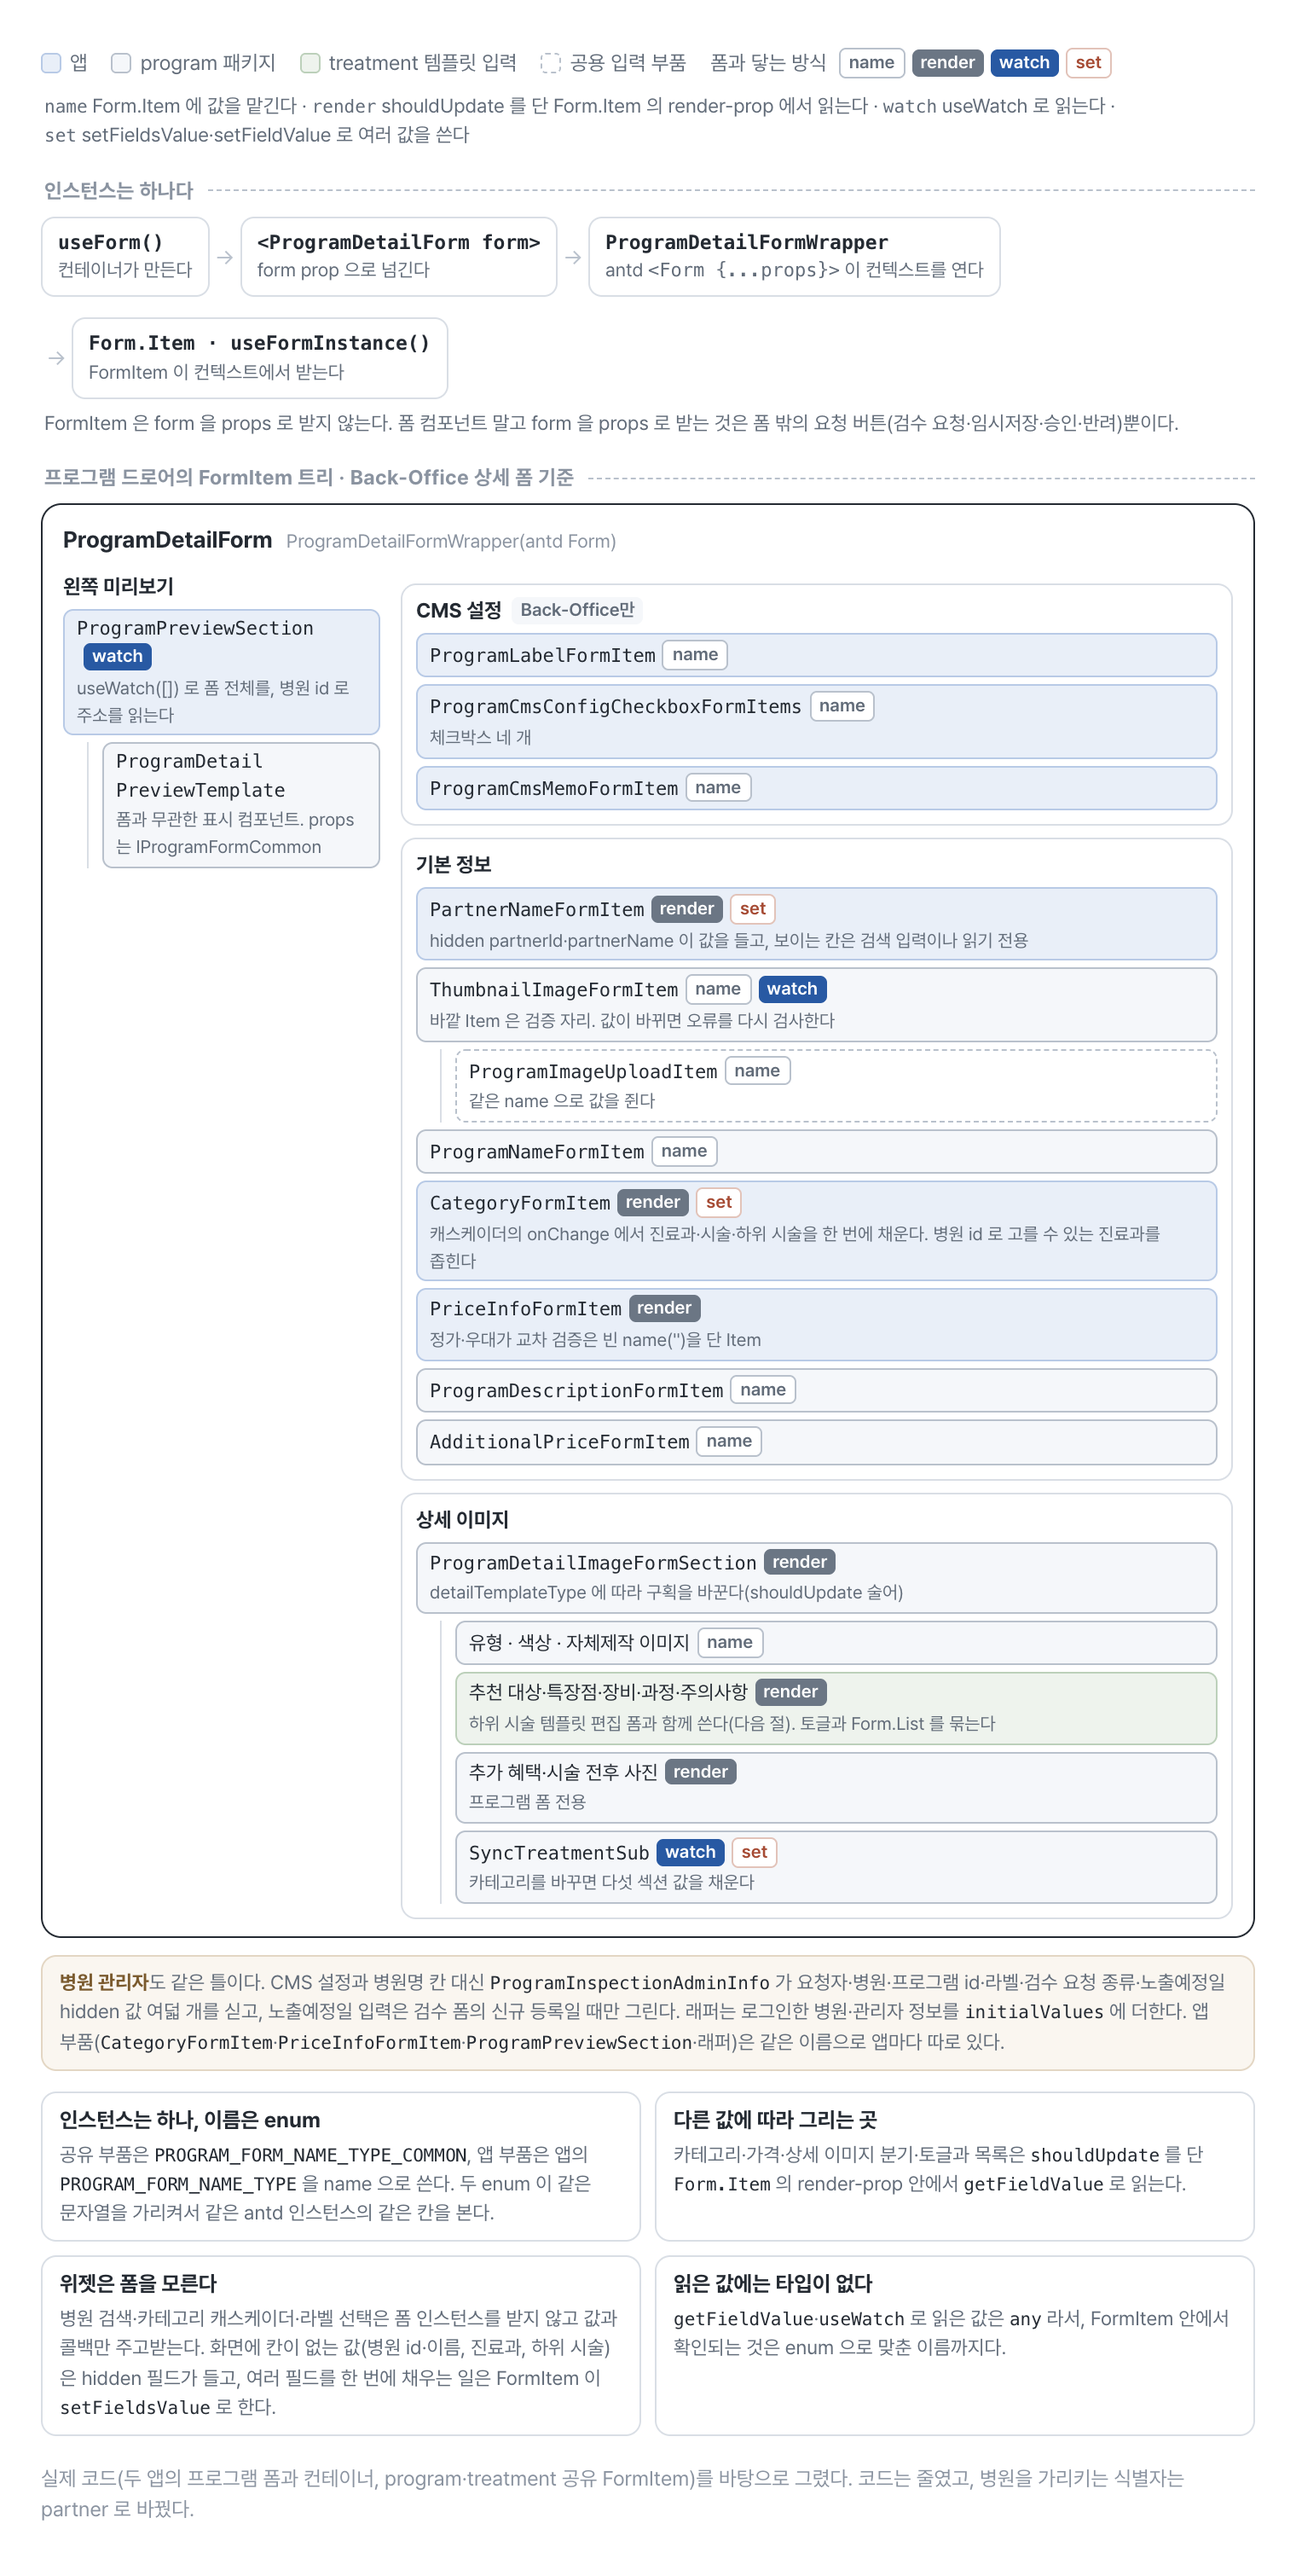
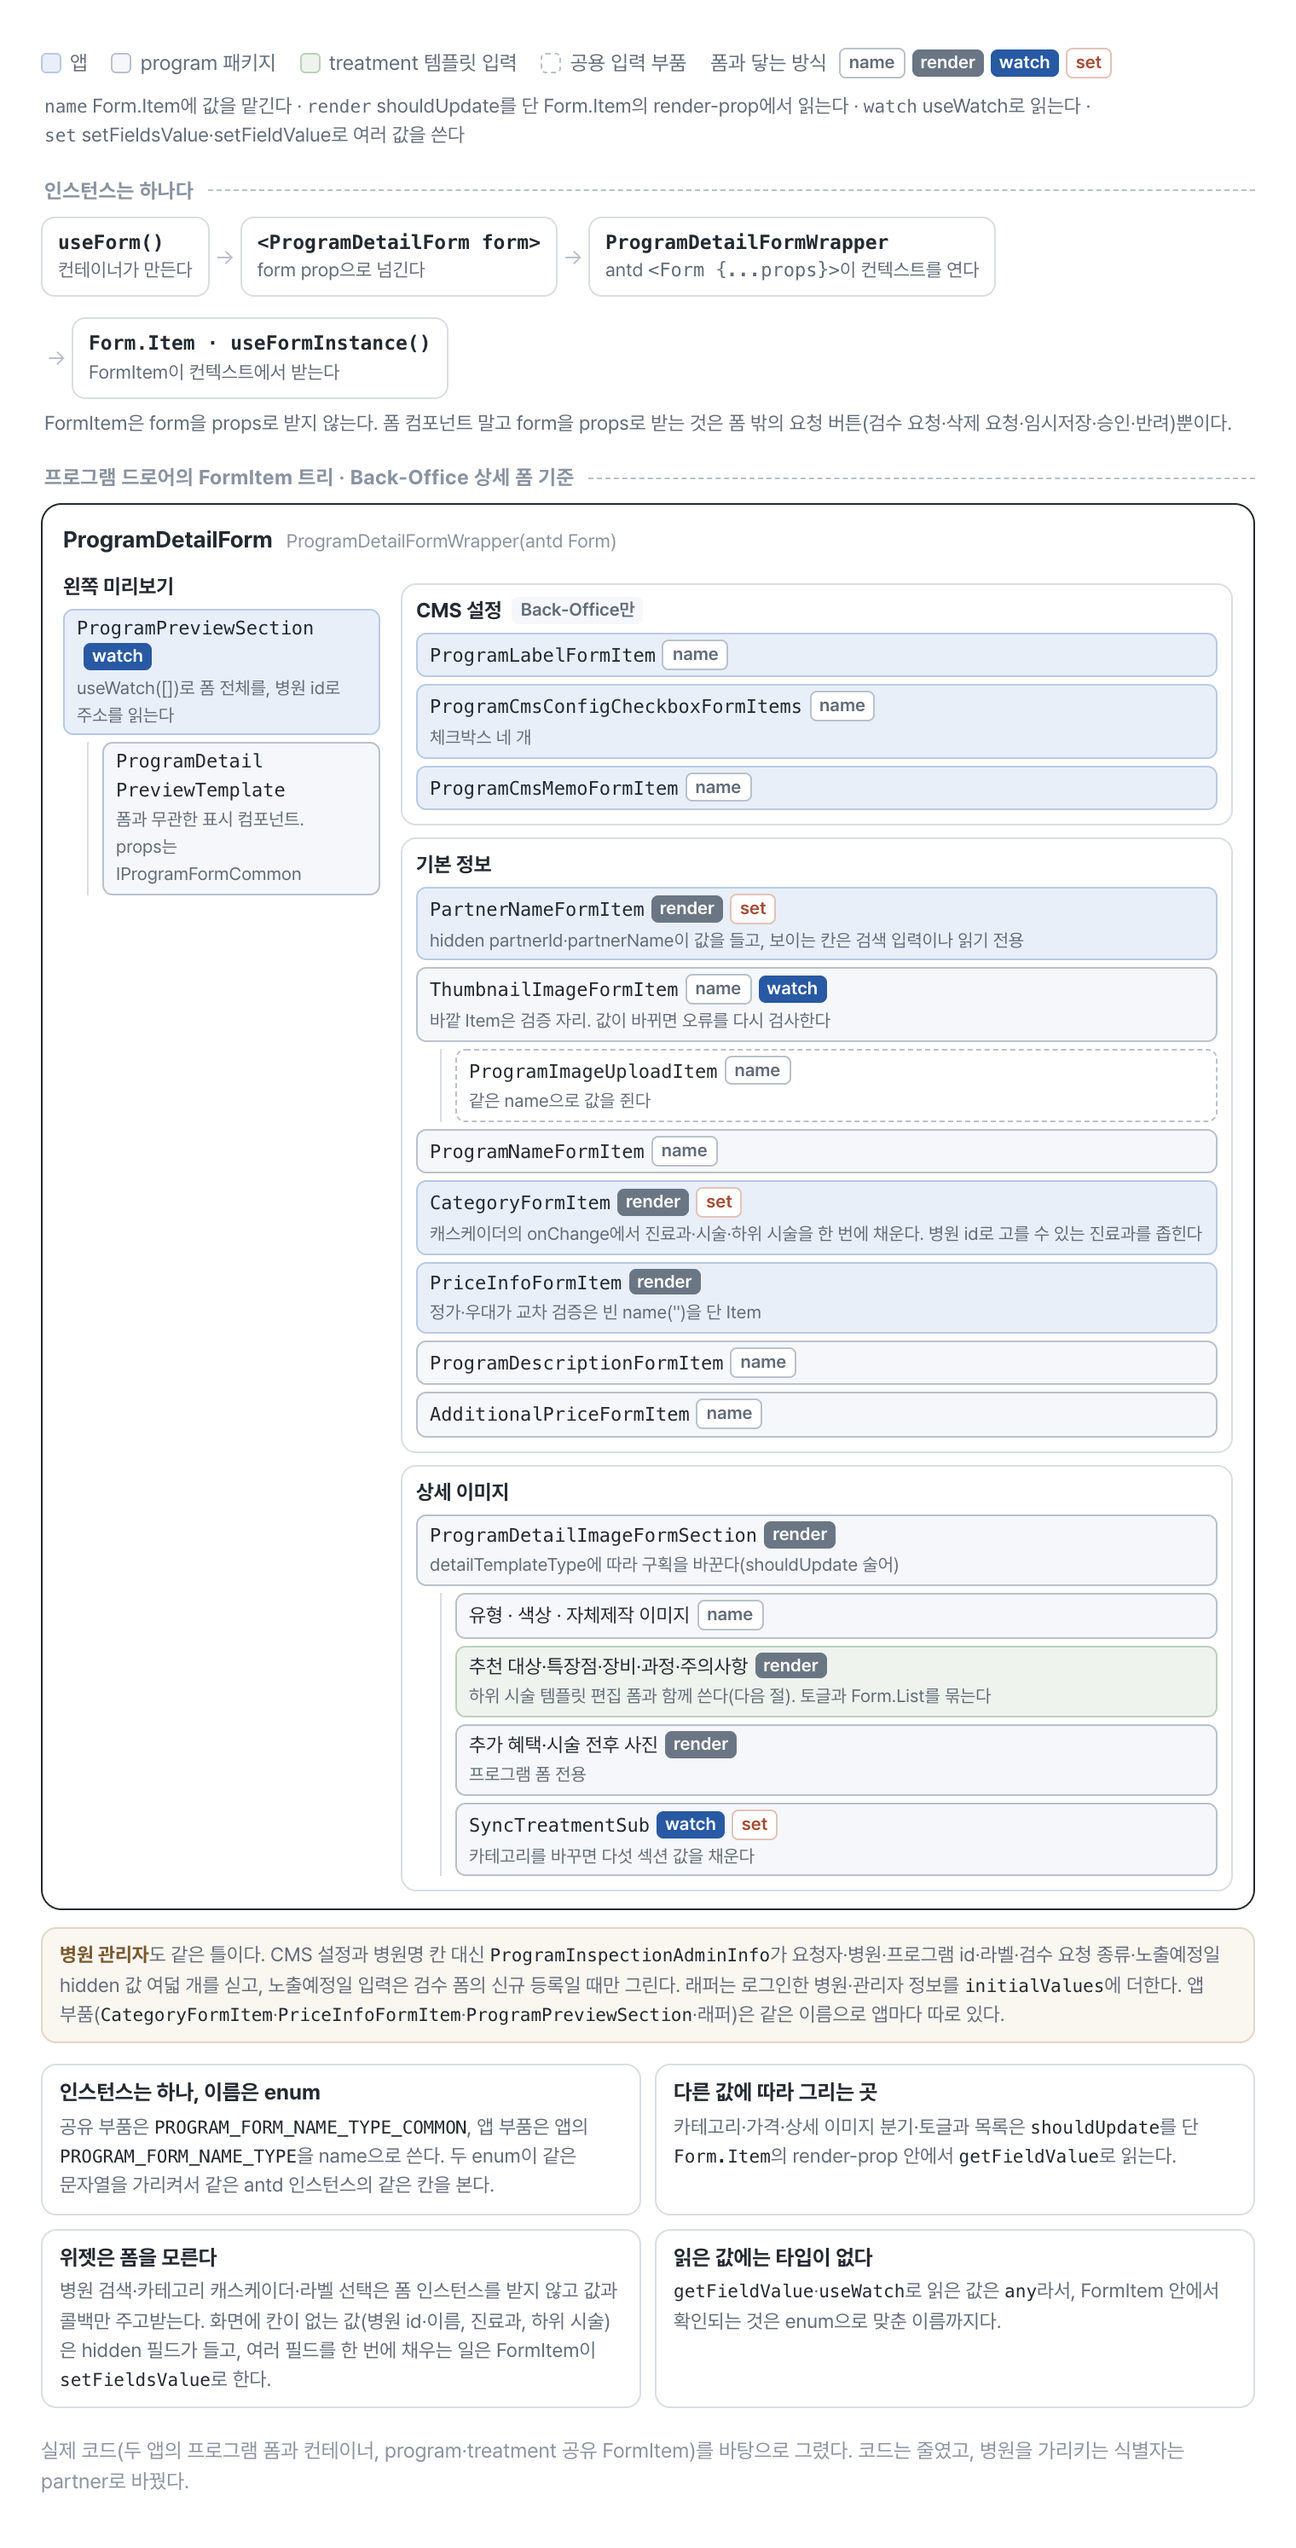
docs(blog): 프로그램 폼 그림의 조사 띄어쓰기·용어와 삭제 요청 버튼을 바로잡는다 (06-formitem-design)

diff --git a/blog/assets/figures/program-form/src/06-formitem-design.html b/blog/assets/figures/program-form/src/06-formitem-design.html
@@ -58,17 +58,17 @@
   <span><i class="sw shared"></i>공용 입력 부품</span>
   <span>폼과 닿는 방식 <span class="api nm">name</span><span class="api rd">render</span><span class="api wt">watch</span><span class="api st">set</span></span>
 </div>
-<p class="flow-note" style="margin:-4px 0 14px 2px"><span class="nw"><code>name</code> Form.Item 에 값을 맡긴다</span> · <span class="nw"><code>render</code> shouldUpdate 를 단 Form.Item 의 render-prop 에서 읽는다</span> · <span class="nw"><code>watch</code> useWatch 로 읽는다</span> · <span class="nw"><code>set</code> setFieldsValue·setFieldValue 로 여러 값을 쓴다</span></p>
+<p class="flow-note" style="margin:-4px 0 14px 2px"><span class="nw"><code>name</code> Form.Item에 값을 맡긴다</span> · <span class="nw"><code>render</code> shouldUpdate를 단 Form.Item의 render-prop에서 읽는다</span> · <span class="nw"><code>watch</code> useWatch로 읽는다</span> · <span class="nw"><code>set</code> setFieldsValue·setFieldValue로 여러 값을 쓴다</span></p>
 
 <div class="zone">인스턴스는 하나다</div>
 <div class="flow">
   <div class="st"><b>useForm()</b>컨테이너가 만든다</div><div class="ar">→</div>
-  <div class="st"><b>&lt;ProgramDetailForm form&gt;</b>form prop 으로 넘긴다</div><div class="ar">→</div>
-  <div class="st"><b>ProgramDetailFormWrapper</b>antd <code>&lt;Form {...props}&gt;</code> 이 컨텍스트를 연다</div>
+  <div class="st"><b>&lt;ProgramDetailForm form&gt;</b>form prop으로 넘긴다</div><div class="ar">→</div>
+  <div class="st"><b>ProgramDetailFormWrapper</b>antd <code>&lt;Form {...props}&gt;</code>이 컨텍스트를 연다</div>
   <div class="br"></div><div class="ar">→</div>
-  <div class="st"><b>Form.Item · useFormInstance()</b>FormItem 이 컨텍스트에서 받는다</div>
+  <div class="st"><b>Form.Item · useFormInstance()</b>FormItem이 컨텍스트에서 받는다</div>
 </div>
-<p class="flow-note">FormItem 은 form 을 props 로 받지 않는다. 폼 컴포넌트 말고 form 을 props 로 받는 것은 폼 밖의 요청 버튼(검수 요청·임시저장·승인·반려)뿐이다.</p>
+<p class="flow-note">FormItem은 form을 props로 받지 않는다. 폼 컴포넌트 말고 form을 props로 받는 것은 폼 밖의 요청 버튼(검수 요청·삭제 요청·임시저장·승인·반려)뿐이다.</p>
 
 <div class="zone">프로그램 드로어의 FormItem 트리 · Back-Office 상세 폼 기준</div>
 <div class="drawer">
@@ -76,8 +76,8 @@
   <div class="cols">
     <div>
       <div class="sec-h">왼쪽 미리보기</div>
-      <div class="n lay-app">ProgramPreviewSection<span class="api wt">watch</span><span class="s">useWatch([]) 로 폼 전체를, 병원 id 로 주소를 읽는다</span></div>
-      <div class="kid"><div class="n prog">ProgramDetail<wbr>PreviewTemplate<span class="s">폼과 무관한 표시 컴포넌트. props 는 IProgramFormCommon</span></div></div>
+      <div class="n lay-app">ProgramPreviewSection<span class="api wt">watch</span><span class="s">useWatch([])로 폼 전체를, 병원 id로 주소를 읽는다</span></div>
+      <div class="kid"><div class="n prog">ProgramDetail<wbr>PreviewTemplate<span class="s">폼과 무관한 표시 컴포넌트. props는 IProgramFormCommon</span></div></div>
     </div>
     <div>
       <div class="sec">
@@ -88,21 +88,21 @@
       </div>
       <div class="sec">
         <div class="sec-h">기본 정보</div>
-        <div class="n lay-app">PartnerNameFormItem<span class="api rd">render</span><span class="api st">set</span><span class="s">hidden partnerId·partnerName 이 값을 들고, 보이는 칸은 검색 입력이나 읽기 전용</span></div>
-        <div class="n prog">ThumbnailImageFormItem<span class="api nm">name</span><span class="api wt">watch</span><span class="s">바깥 Item 은 검증 자리. 값이 바뀌면 오류를 다시 검사한다</span></div>
-        <div class="kid"><div class="n shared">ProgramImageUploadItem<span class="api nm">name</span><span class="s">같은 name 으로 값을 쥔다</span></div></div>
+        <div class="n lay-app">PartnerNameFormItem<span class="api rd">render</span><span class="api st">set</span><span class="s">hidden partnerId·partnerName이 값을 들고, 보이는 칸은 검색 입력이나 읽기 전용</span></div>
+        <div class="n prog">ThumbnailImageFormItem<span class="api nm">name</span><span class="api wt">watch</span><span class="s">바깥 Item은 검증 자리. 값이 바뀌면 오류를 다시 검사한다</span></div>
+        <div class="kid"><div class="n shared">ProgramImageUploadItem<span class="api nm">name</span><span class="s">같은 name으로 값을 쥔다</span></div></div>
         <div class="n prog">ProgramNameFormItem<span class="api nm">name</span></div>
-        <div class="n lay-app">CategoryFormItem<span class="api rd">render</span><span class="api st">set</span><span class="s">캐스케이더의 onChange 에서 진료과·시술·하위 시술을 한 번에 채운다. 병원 id 로 고를 수 있는 진료과를 좁힌다</span></div>
+        <div class="n lay-app">CategoryFormItem<span class="api rd">render</span><span class="api st">set</span><span class="s">캐스케이더의 onChange에서 진료과·시술·하위 시술을 한 번에 채운다. 병원 id로 고를 수 있는 진료과를 좁힌다</span></div>
         <div class="n lay-app">PriceInfoFormItem<span class="api rd">render</span><span class="s">정가·우대가 교차 검증은 빈 name('')을 단 Item</span></div>
         <div class="n prog">ProgramDescriptionFormItem<span class="api nm">name</span></div>
         <div class="n prog">AdditionalPriceFormItem<span class="api nm">name</span></div>
       </div>
       <div class="sec">
         <div class="sec-h">상세 이미지</div>
-        <div class="n prog">ProgramDetailImageFormSection<span class="api rd">render</span><span class="s">detailTemplateType 에 따라 구획을 바꾼다(shouldUpdate 술어)</span></div>
+        <div class="n prog">ProgramDetailImageFormSection<span class="api rd">render</span><span class="s">detailTemplateType에 따라 구획을 바꾼다(shouldUpdate 술어)</span></div>
         <div class="kid">
           <div class="n prog"><span class="ko">유형 · 색상 · 자체제작 이미지</span><span class="api nm">name</span></div>
-          <div class="n tmpl"><span class="ko">추천 대상·특장점·장비·과정·주의사항</span><span class="api rd">render</span><span class="s">하위 시술 템플릿 편집 폼과 함께 쓴다(다음 절). 토글과 Form.List 를 묶는다</span></div>
+          <div class="n tmpl"><span class="ko">추천 대상·특장점·장비·과정·주의사항</span><span class="api rd">render</span><span class="s">하위 시술 템플릿 편집 폼과 함께 쓴다(다음 절). 토글과 Form.List를 묶는다</span></div>
           <div class="n prog"><span class="ko">추가 혜택·시술 전후 사진</span><span class="api rd">render</span><span class="s">프로그램 폼 전용</span></div>
           <div class="n prog">SyncTreatmentSub<span class="api wt">watch</span><span class="api st">set</span><span class="s">카테고리를 바꾸면 다섯 섹션 값을 채운다</span></div>
         </div>
@@ -111,14 +111,14 @@
   </div>
 </div>
 
-<div class="pa"><b>병원 관리자</b>도 같은 틀이다. CMS 설정과 병원명 칸 대신 <code>ProgramInspectionAdminInfo</code> 가 요청자·병원·프로그램 id·라벨·검수 요청 종류·노출예정일 hidden 값 여덟 개를 싣고, 노출예정일 입력은 검수 폼의 신규 등록일 때만 그린다. 래퍼는 로그인한 병원·관리자 정보를 <code>initialValues</code> 에 더한다. 앱 부품(<code>CategoryFormItem</code>·<code>PriceInfoFormItem</code>·<code>ProgramPreviewSection</code>·<span class="nw">래퍼)은</span> 같은 이름으로 앱마다 따로 있다.</div>
+<div class="pa"><b>병원 관리자</b>도 같은 틀이다. CMS 설정과 병원명 칸 대신 <code>ProgramInspectionAdminInfo</code>가 요청자·병원·프로그램 id·라벨·검수 요청 종류·노출예정일 hidden 값 여덟 개를 싣고, 노출예정일 입력은 검수 폼의 신규 등록일 때만 그린다. 래퍼는 로그인한 병원·관리자 정보를 <code>initialValues</code>에 더한다. 앱 부품(<code>CategoryFormItem</code>·<code>PriceInfoFormItem</code>·<code>ProgramPreviewSection</code>·<span class="nw">래퍼)은</span> 같은 이름으로 앱마다 따로 있다.</div>
 
 <div class="rules">
-  <div class="rule"><b>인스턴스는 하나, 이름은 enum</b>공유 부품은 <code>PROGRAM_FORM_NAME_TYPE_COMMON</code>, 앱 부품은 앱의 <code>PROGRAM_FORM_NAME_TYPE</code> 을 name 으로 쓴다. 두 enum 이 같은 문자열을 가리켜서 같은 antd 인스턴스의 같은 칸을 본다.</div>
-  <div class="rule"><b>다른 값에 따라 그리는 곳</b>카테고리·가격·상세 이미지 분기·토글과 목록은 <code>shouldUpdate</code> 를 단 <code>Form.Item</code> 의 render-prop 안에서 <code>getFieldValue</code> 로 읽는다.</div>
-  <div class="rule"><b>위젯은 폼을 모른다</b>병원 검색·카테고리 캐스케이더·라벨 선택은 폼 인스턴스를 받지 않고 값과 콜백만 주고받는다. 화면에 칸이 없는 값(병원 id·이름, 진료과, 하위 시술)은 hidden 필드가 들고, 여러 필드를 한 번에 채우는 일은 FormItem 이 <code>setFieldsValue</code> 로 한다.</div>
-  <div class="rule"><b>읽은 값에는 타입이 없다</b><code>getFieldValue</code>·<code>useWatch</code> 로 읽은 값은 <code>any</code> 라서, FormItem 안에서 확인되는 것은 enum 으로 맞춘 이름까지다.</div>
+  <div class="rule"><b>인스턴스는 하나, 이름은 enum</b>공유 부품은 <code>PROGRAM_FORM_NAME_TYPE_COMMON</code>, 앱 부품은 앱의 <code>PROGRAM_FORM_NAME_TYPE</code>을 name으로 쓴다. 두 enum이 같은 문자열을 가리켜서 같은 antd 인스턴스의 같은 칸을 본다.</div>
+  <div class="rule"><b>다른 값에 따라 그리는 곳</b>카테고리·가격·상세 이미지 분기·토글과 목록은 <code>shouldUpdate</code>를 단 <code>Form.Item</code>의 render-prop 안에서 <code>getFieldValue</code>로 읽는다.</div>
+  <div class="rule"><b>위젯은 폼을 모른다</b>병원 검색·카테고리 캐스케이더·라벨 선택은 폼 인스턴스를 받지 않고 값과 콜백만 주고받는다. 화면에 칸이 없는 값(병원 id·이름, 진료과, 하위 시술)은 hidden 필드가 들고, 여러 필드를 한 번에 채우는 일은 FormItem이 <code>setFieldsValue</code>로 한다.</div>
+  <div class="rule"><b>읽은 값에는 타입이 없다</b><code>getFieldValue</code>·<code>useWatch</code>로 읽은 값은 <code>any</code>라서, FormItem 안에서 확인되는 것은 enum으로 맞춘 이름까지다.</div>
 </div>
 
-<p class="foot">실제 코드(두 앱의 프로그램 폼과 컨테이너, program·treatment 공유 FormItem)를 바탕으로 그렸다. 코드는 줄였고, 병원을 가리키는 식별자는 partner 로 바꿨다.</p>
+<p class="foot">실제 코드(두 앱의 프로그램 폼과 컨테이너, program·treatment 공유 FormItem)를 바탕으로 그렸다. 코드는 줄였고, 병원을 가리키는 식별자는 partner로 바꿨다.</p>
 </body></html>
